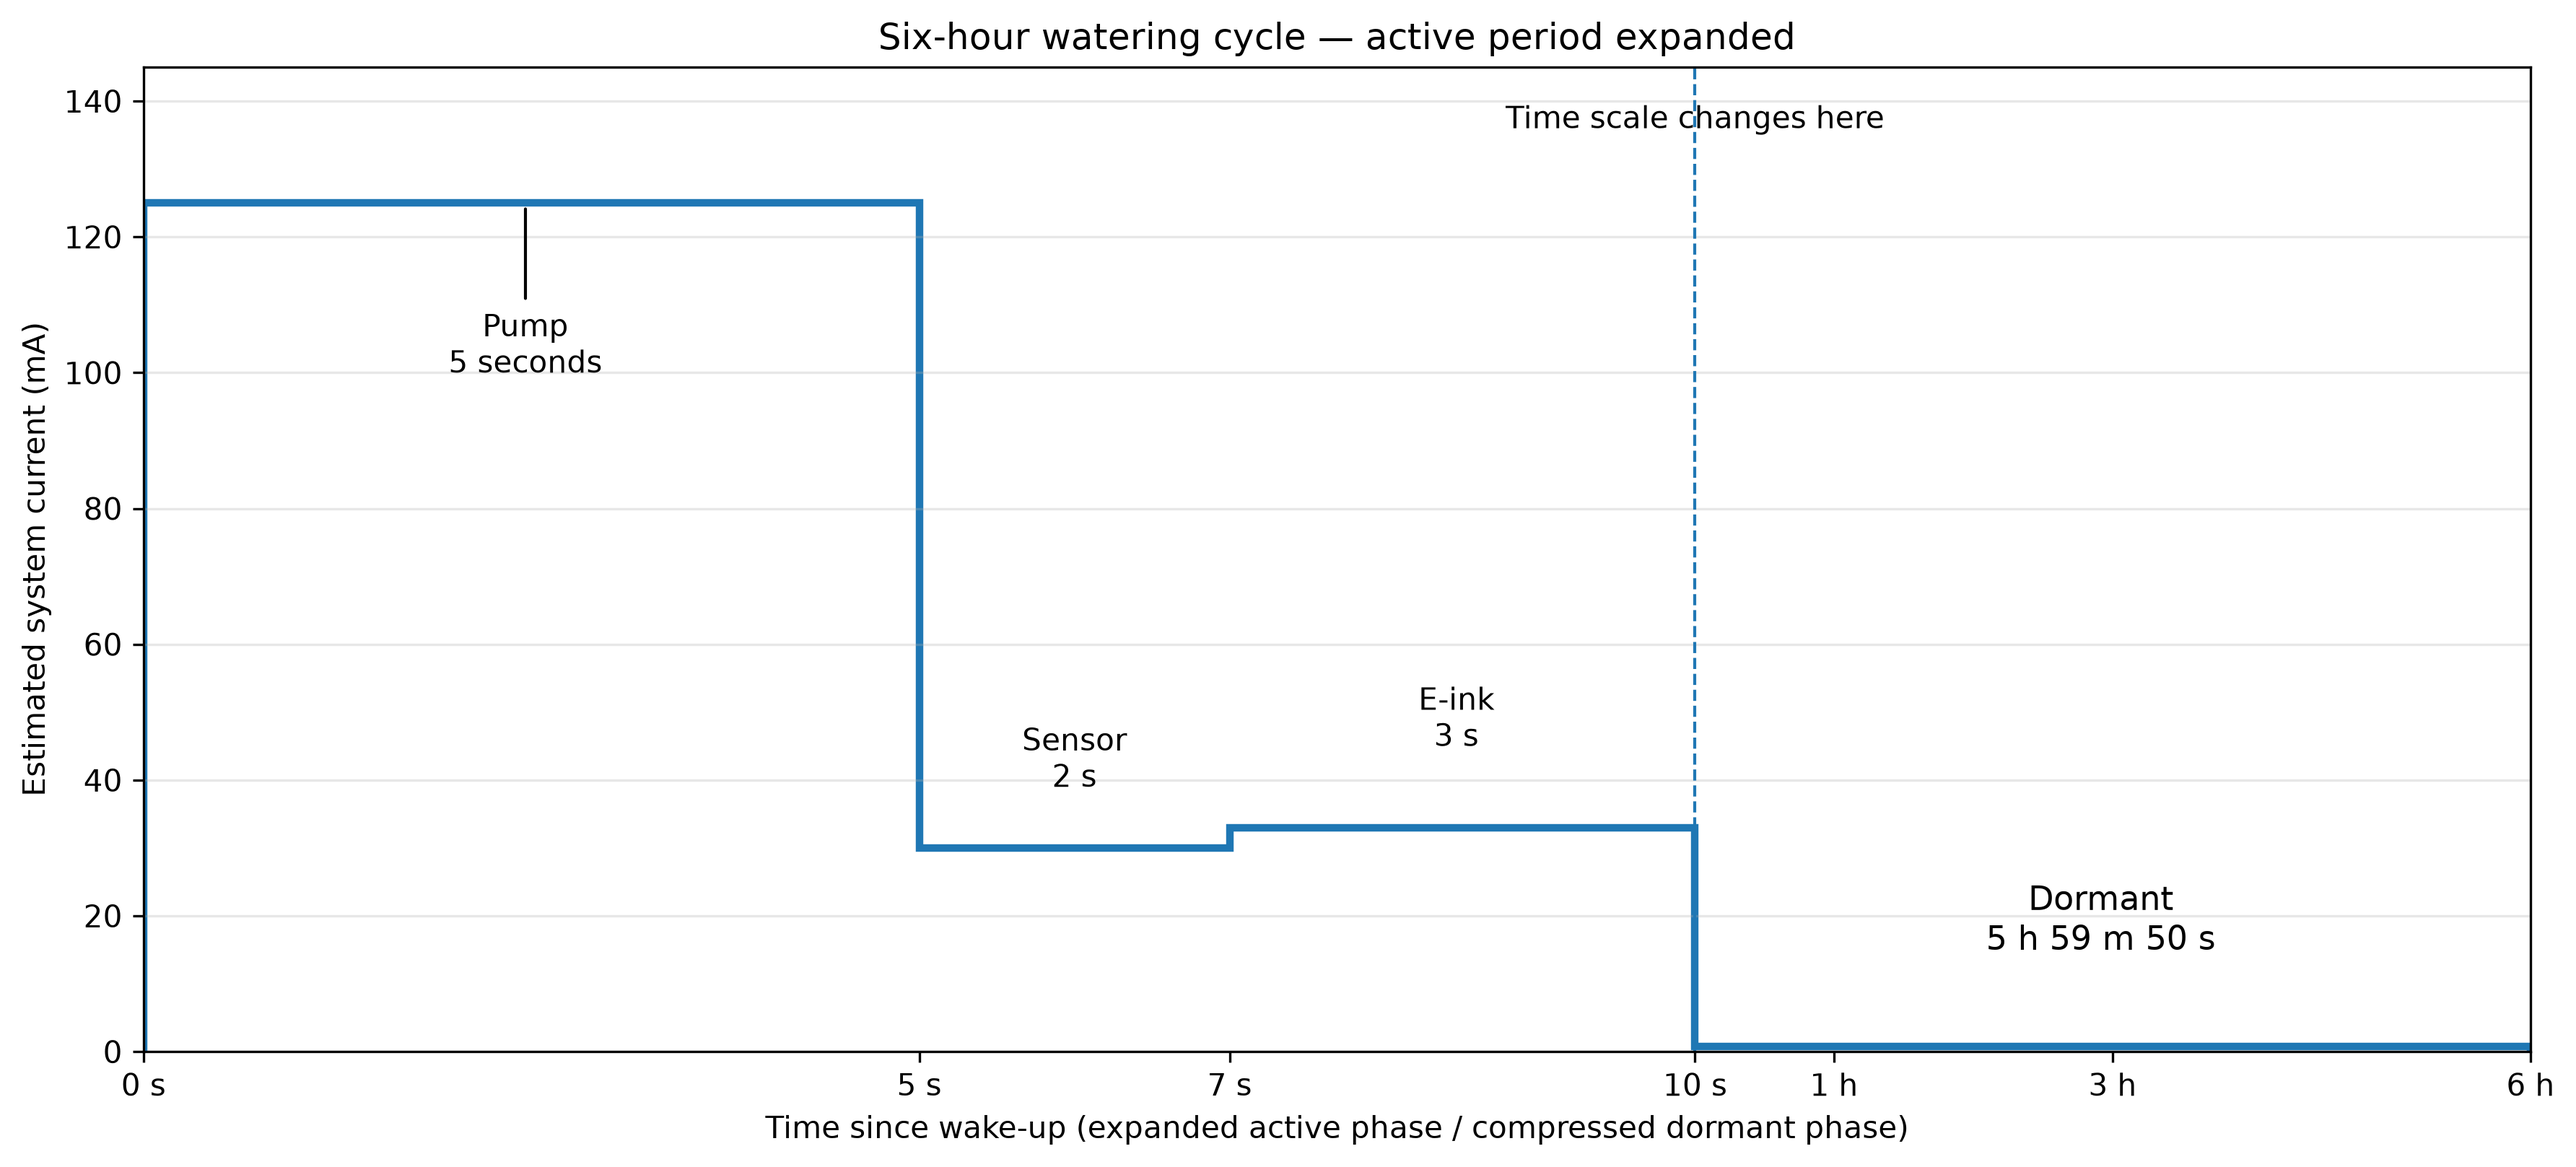
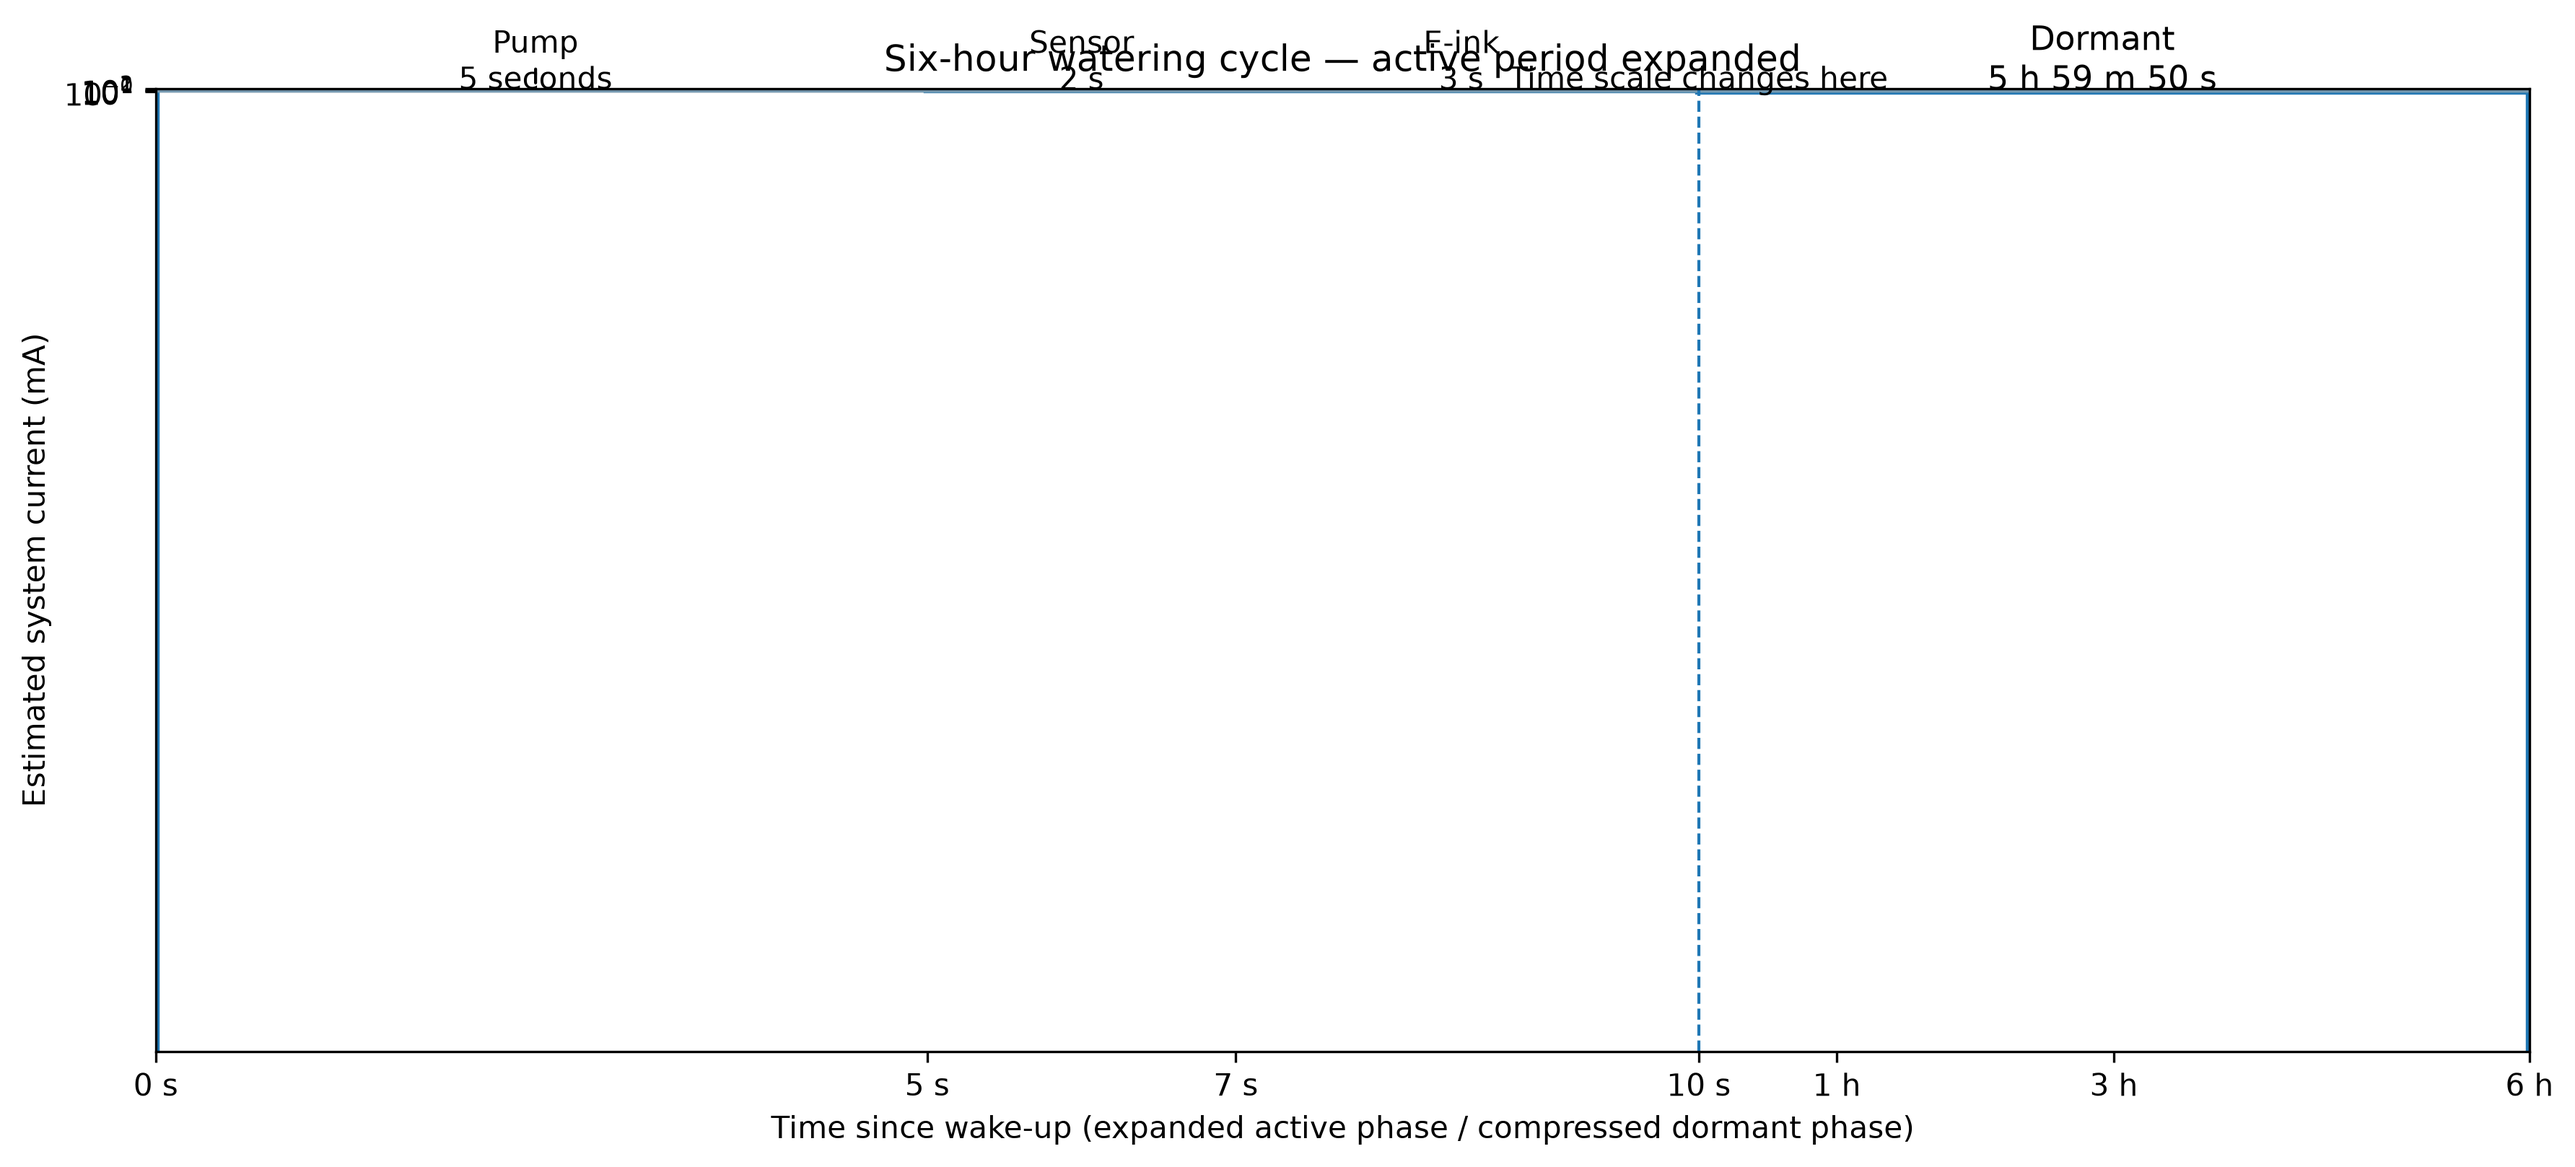
made plot logarithmic

diff --git a/plots/current_draw.py b/plots/current_draw.py
@@ -59,6 +59,16 @@ fig, ax = plt.subplots(figsize=(12, 5.5))
 
 ax.stairs(current, compressed_time(times), linewidth=2.5)
 
+# Logarithmic Y-axis
+ax.set_yscale("log")
+
+# A logarithmic axis cannot include zero
+ax.set_ylim(0.5, 200)
+
+# Custom Y-axis ticks
+ax.set_yticks([0.5, 1, 2, 5, 10, 20, 50, 100, 200])
+ax.set_yticklabels(["0.5", "1", "2", "5", "10", "20", "50", "100", "200"])
+
 # Line marking the change in time scale
 ax.axvline(0.65, linestyle="--", linewidth=1)
 
@@ -68,19 +78,19 @@ ax.axvline(0.65, linestyle="--", linewidth=1)
 
 ax.annotate(
     "Pump\n5 seconds",
-    xy=(0.16, 125),
-    xytext=(0.16, 100),
+    xy=(0.16, current[0]),
+    xytext=(0.16, 65),
     ha="center",
     arrowprops={"arrowstyle": "-", "lw": 1},
 )
 
-ax.text(0.39, 39, "Sensor\n2 s", ha="center", fontsize=10)
+ax.text(0.39, 40, "Sensor\n2 s", ha="center", fontsize=10)
 
 ax.text(0.55, 45, "E-ink\n3 s", ha="center", fontsize=10)
 
-ax.text(0.82, 15, "Dormant\n5 h 59 m 50 s", ha="center", fontsize=11)
+ax.text(0.82, 2, "Dormant\n5 h 59 m 50 s", ha="center", fontsize=11)
 
-ax.text(0.65, 136, "Time scale changes here", ha="center", fontsize=10)
+ax.text(0.65, 175, "Time scale", ha="center", fontsize=10)
 
 # --------------------------------------------------
 # Axis labels and ticks
@@ -94,19 +104,19 @@ ax.set_xticks([*compressed_time(ticks_seconds), *compressed_time(ticks_hours)])
 ax.set_xticklabels(["0 s", "5 s", "7 s", "10 s", "1 h", "3 h", "6 h"])
 
 ax.set_xlim(0, 1)
-ax.set_ylim(0, 145)
 
 ax.set_xlabel("Time since wake-up (expanded active phase / compressed dormant phase)")
 
-ax.set_ylabel("Estimated system current (mA)")
+ax.set_ylabel("Estimated system current (mA, log scale)")
 
-ax.set_title("Six-hour watering cycle — active period expanded")
+ax.set_title("Six-hour watering cycle — logarithmic current scale")
 
-ax.grid(axis="y", alpha=0.3)
+# Grid lines for logarithmic scale
+ax.grid(True, which="major", axis="y", alpha=0.35)
+
+ax.grid(True, which="minor", axis="y", linestyle=":", alpha=0.15)
 
 plt.tight_layout()
 
-# Save high-resolution figure for Typst report
-plt.savefig("current_draw_6h.png", dpi=300, bbox_inches="tight")
-
-plt.show()
+plt.savefig("current_draw_6h_log_300dpi.png", dpi=300, bbox_inches="tight")
+plt.savefig("current_draw_6h_log.png", bbox_inches="tight")
